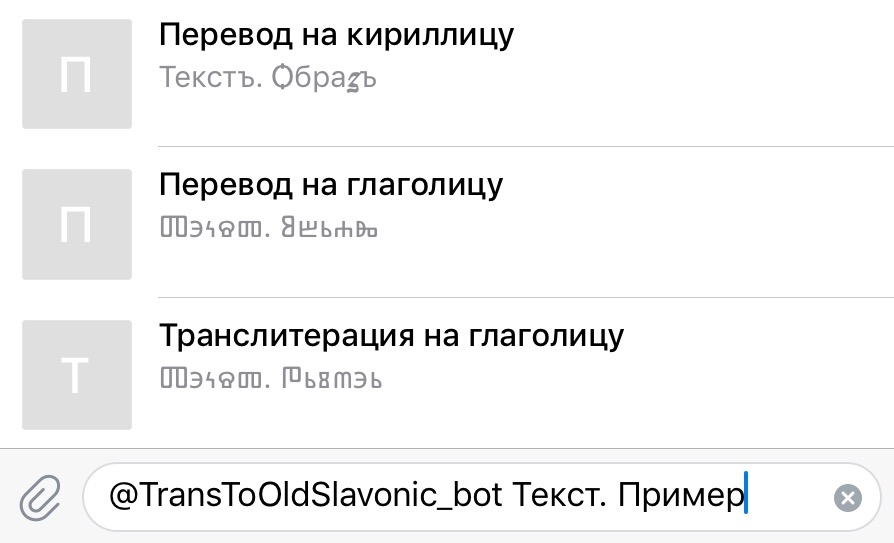
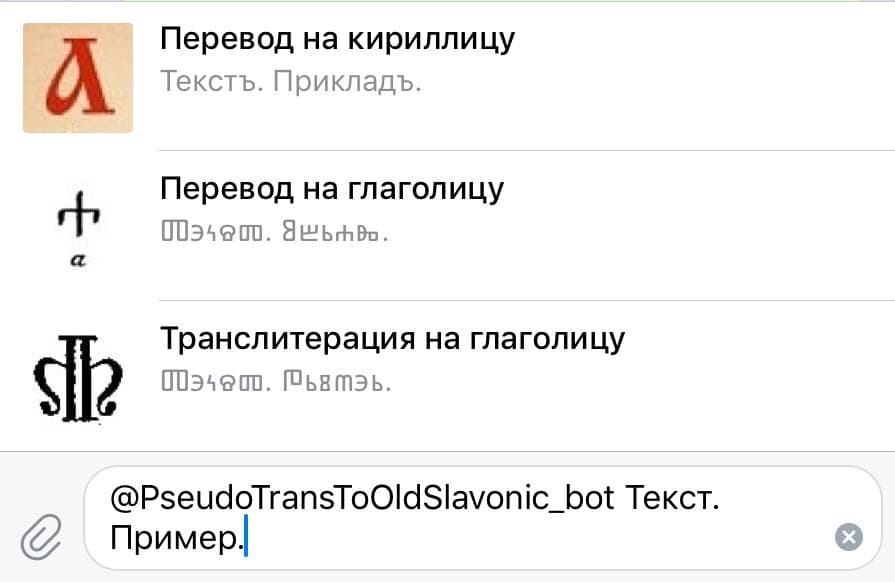
initial commit

diff --git a/worker.py b/worker.py
@@ -8,7 +8,8 @@ import requests
 import configparser
 
 from config import TOKEN, CACHE_TIME, NAMES_REPLACE
-from config import ADMINS, LOGGING_CHAT
+from config import ADMINS, LOGGING_CHAT, HELP_URL
+from config import A_CYRYLLIC, A_GLAGOLIC, A_LATER_GLAGOLIC
 from functions import translation, glagolic_transliterate
 
 
@@ -19,7 +20,7 @@ HEAD_CHAT = -1001172242526
 
 WORDS_GAME_PATTERN = r"(?is)!?\s?([-а-яё]+)(?:\s*\(.+\))?"
 
-edit_date = '06.03.2021'  # dummy, to check for updates at the server
+edit_date = '@evening-06.03.2021'  # dummy, to check for updates while running.
 
 
 INLINE_EXAMPLES = [
@@ -255,7 +256,7 @@ def play_words(chat_id, message, current=0):
             answer_msg = f"На букву {cur_letter!r}{dot}"
             bot.send_message(chat_id, answer_msg, 
                 reply_to_message_id=message.message_id)
-            return  #~
+            return
         if requests.get(f"https://loopy.ru/?word={word}&def=").status_code \
             == 404:
             answer_msg = f"Вау. Кажется, я не знаю этого слова. Хотя, \
@@ -266,15 +267,15 @@ def play_words(chat_id, message, current=0):
 слово. И вообще, это not implemented ещё{dot})"*feature_exists('teach_word')
             bot.send_message(chat_id, answer_msg, 
                 reply_to_message_id=message.message_id)
-            return  #~
+            return
         if word.casefold() in map(lambda s: s.casefold(), mentioned):
             answer_msg = f"Слово {word!r} уже было в этой игре{dot}"
             bot.send_message(chat_id, answer_msg, 
                 reply_to_message_id=message.message_id)
-            return  #~
+            return
         mentioned.append(word)
         res = word.lower().rstrip('ь')
-        assert re.fullmatch("(?i)[-а-яё]+", res)  #~
+        assert re.fullmatch("(?i)[-а-яё]+", res)  # really required?
         letter = res[-1]
         section["letter"] = letter
         current = (current + 1) % len(order)
@@ -303,6 +304,7 @@ def play_words(chat_id, message, current=0):
         with open(filename, 'w', encoding='utf-8') as f:
             c.write(f)
 
+r''' # uncomment for tests:
 @bot.message_handler(commands=['test_start'])
 def test_start_message(message):
     if message.from_user.id not in ADMINS:
@@ -323,6 +325,7 @@ def test_start_message(message):
         ])
     bot.send_message(message.chat.id, msg, reply_markup=keyboard)
     pass
+'''
 
 # examples for it:
 # /do -password=pw -action=eval code
@@ -389,7 +392,7 @@ def start_message(message):
     chat_id = message.chat.id
 
     header = "\[test]"*test
-    # ~0:01 at 2021-08-02: once said "can't parse ent.",
+    # ~0:01 at 2021-02-08: once said "can't parse ent.",
     # after reload — with some extra ent. ...
     # Then — without (one '"'' was rem.), but wrong, not working.
     # Then — again once "can't ..." (byte offset ?552)
@@ -407,7 +410,7 @@ def start_message(message):
     allow_to_all = False
     if allow_to_all or is_participant(user_id):
         def invite_link(chat_id_):
-            # No `export_chat_invite_link`!
+            # No `export_chat_invite_link`.
             try:
                 link = bot.get_chat(chat_id_).invite_link
             except:
@@ -446,12 +449,21 @@ def send_help_msg(message):
  слово "@""" + BOT_USERNAME.replace('_', r'\_') + """\
 \" и, после пробела, — текст для перевода.
 Для отправки текста из списка нажать на тот текст.
+Очень много символов за раз бот не может отправить, только около 220.
 `*` Возможные ошибки: недописывание символов.
 
-Ещё: игра в слова (см. /words help). Значение слова: \
+Ещё: игра в слова (см. `/words help`). Значение слова: \
 см. /meaning help.
 """
-    bot.send_message(message.chat.id, msg, parse_mode='Markdown')
+    help_message = types.InlineKeyboardButton(
+        text="Руководство",
+        url=HELP_URL)
+    keyboard = types.InlineKeyboardMarkup(
+        [[help_message]]
+        )
+    bot.send_message(message.chat.id, msg, parse_mode='Markdown',
+        reply_markup=keyboard,
+        )
 
 
 def words_skip_move(message):
@@ -806,7 +818,7 @@ def greet_new_chat_member(message):
         is_test_msg = False
         day = __import__("datetime").datetime.now()
         till = (
-            "28.02.2021"
+            "28.02.2021, 06.03.2021" #
             # day.strftime("%d.%m.%Y")
             )
 
@@ -891,7 +903,8 @@ def answer_query(query):
             title="Перевод на кириллицу",
             description=text_cyr,
             input_message_content=types.InputTextMessageContent(
-                message_text=text_cyr)
+                message_text=text_cyr),
+            thumb_url=A_CYRYLLIC, thumb_width=48, thumb_height=48,
             )
         
         text_gla = translation(text, dest="glagolic")
@@ -900,7 +913,8 @@ def answer_query(query):
             title="Перевод на глаголицу",
             description=text_gla,
             input_message_content=types.InputTextMessageContent(
-                message_text=text_gla)
+                message_text=text_gla),
+            thumb_url=A_GLAGOLIC, thumb_width=48, thumb_height=48,
             )
         
         text_transliterated_gla = glagolic_transliterate(text)
@@ -909,7 +923,8 @@ def answer_query(query):
             title="Транслитерация на глаголицу",
             description=text_transliterated_gla,
             input_message_content=types.InputTextMessageContent(
-                message_text=text_transliterated_gla)
+                message_text=text_transliterated_gla),
+            thumb_url=A_LATER_GLAGOLIC, thumb_width=48, thumb_height=48,
             )
         answers = [cyr, gla, transliterated_gla] + answers
         bot.answer_inline_query(query.id, answers, cache_time=CACHE_TIME)
@@ -921,11 +936,17 @@ def answer_empty_query(query):
     _add_user(query.from_user.id)
 
     try:
+        thumb_url = \
+        A_LATER_GLAGOLIC
+
         r = types.InlineQueryResultArticle(
             id='1',
             title="Перевод на славянские языки: кириллица, глаголица.",
             input_message_content=types.InputTextMessageContent(
-                message_text="..."),
+                message_text="..."
+                ),
+            url=HELP_URL,
+            thumb_url=thumb_url, thumb_width=48, thumb_height=48,
             description="Введи текст для перевода, жми на нужный для отправки"
             )
         bot.answer_inline_query(query.id, [r], cache_time=CACHE_TIME)

diff --git a/config.py b/config.py
@@ -127,6 +127,19 @@ ADMINS = [  # Not used yet
 699642076
 ]
 
+HELP_URL = "https://telegra.ph/Perevodchik-na-staroslavyanskij-02-28"
+
+A_CYRYLLIC = \
+"https://i.ibb.co/N9Vznhx/F67-C56-DB-732-C-468-B-BC4-B-81-FCCBEEE37-D.jpg"
+# "https://i.ibb.co/dWWGVNn/761-CAC86-A008-47-CD-AC0-C-EED91-B363066.jpg"
+# "https://i.ibb.co/d4BXwxN/416-AA3-ED-6440-4047-9-ACB-C7-BE3-C818661.jpg"
+A_GLAGOLIC = \
+"https://i.ibb.co/DzwcQpr/16482-EB9-9-FF9-405-C-BD76-06-FFDD0613-C2.jpg"
+A_LATER_GLAGOLIC = \
+"https://i.ibb.co/2SS7nP7/3-FA71-E14-25-A0-4-B7-C-B8-F1-EDB9-DC8118-AF.jpg"
+
+# "https://i.ibb.co/9ZbkK7N/44197119-AADE-442-A-976-F-A90-B9-E39-F3-B2.jpg"
+
 # A dictionary of `name: (replacement, uid)`
 NAMES_REPLACE = eval(get('NAMES_REPLACE'))
 

diff --git a/README.md b/README.md
@@ -17,10 +17,8 @@
 
 Переводчик на старославянский язык.
 
-Статья в Telegraph: 
+Статья в Telegraph:
 https://telegra.ph/Perevodchik-na-staroslavyanskij-02-28
-<!-- tests: -->
-<!-- https://telegra.ph/Test-02-20-154 -->
 
 # Usage
 <a id="usage"></a>
